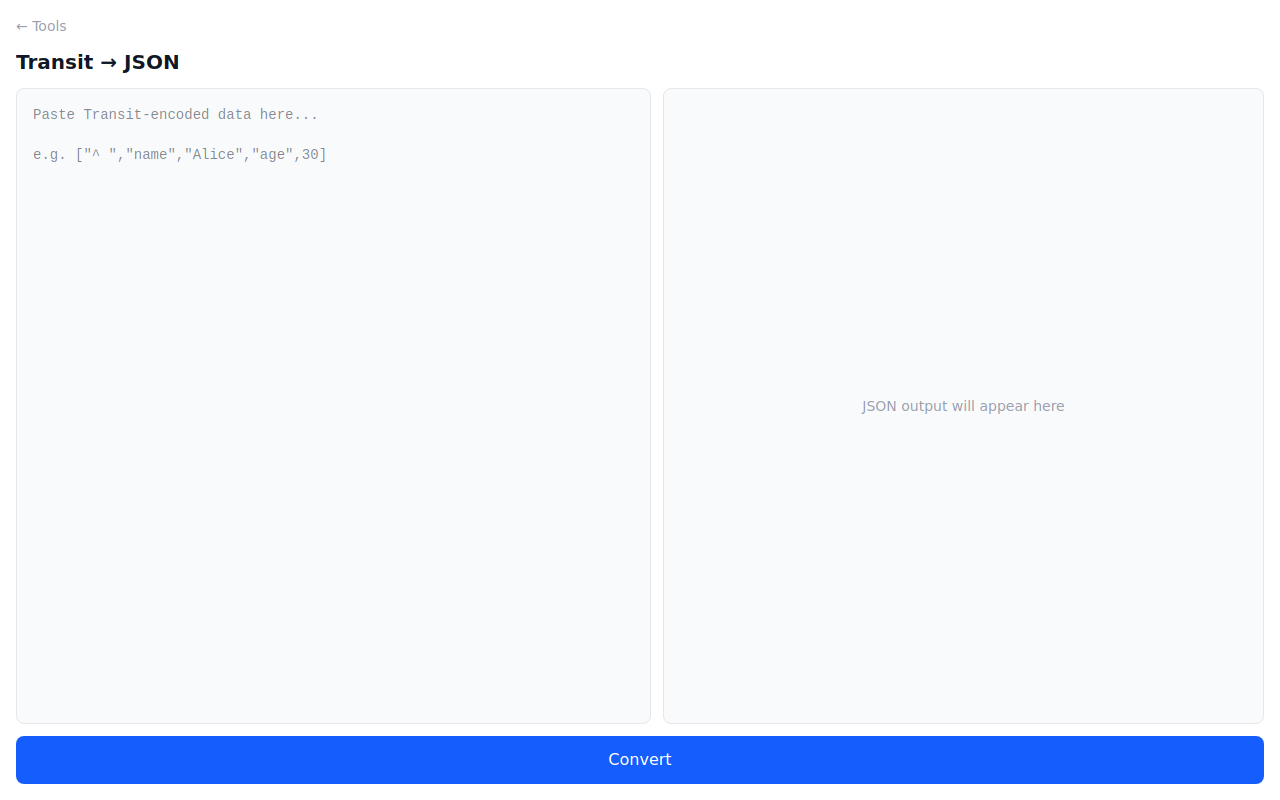
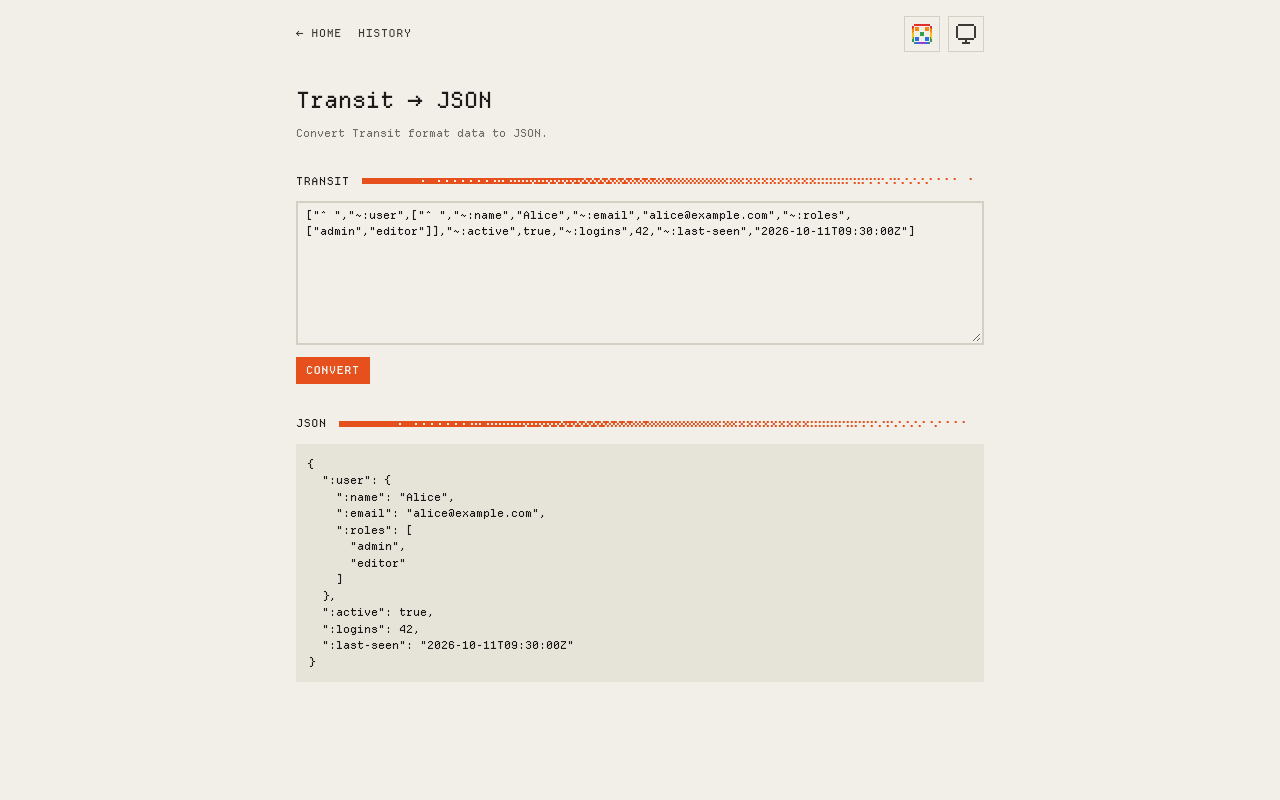
feat(transit-converter): the converter sits on PixelAppLayout and draws from the pixel kit (#84)
- **The layout's app bar replaces the tool's own nav**
  the hand-rolled Home link, history link and ThemeToggle are gone; `historyUrl` is no longer threaded through.
- **Input, Convert and output stack in one column**
  the old side-by-side, full-height split doesn't fit the 720px notes column; stacking reads top to bottom on phone and desktop alike.
- **Every colour is a token**
  errors are `danger`, output is `code-bg`/`code-text`, Convert is the primary button.
- **The screenshot shows a real conversion**
  so the front-page card reads as the tool rather than an empty form; dither stays `ui`.

diff --git a/src/pages/transit-converter/_app/app.jsx b/src/pages/transit-converter/_app/app.jsx
@@ -1,7 +1,7 @@
 import { createRoot } from 'react-dom/client';
 import { useState } from 'react';
 import transit from 'transit-js';
-import { ThemeToggle } from '../../../components/ThemeToggle.jsx';
+import { SectionLabel } from '../../../components/pixel/SectionLabel.jsx';
 
 const reader = transit.reader('json');
 
@@ -25,7 +25,7 @@ function toJson(value) {
   return value;
 }
 
-function App({ historyUrl }) {
+function App() {
   const [input, setInput] = useState('');
   const [output, setOutput] = useState(null);
   const [error, setError] = useState(null);
@@ -42,66 +42,39 @@ function App({ historyUrl }) {
   };
 
   return (
-    <div className="flex flex-col h-screen p-4 gap-3 bg-white dark:bg-gray-900 text-gray-900 dark:text-gray-100">
-      <nav className="flex items-center gap-3 text-sm text-gray-400">
-        <a
-          href="../"
-          className="inline-flex items-center gap-1 hover:text-gray-600 dark:hover:text-gray-300 transition-colors"
-        >
-          ← Home
-        </a>
-        {historyUrl && (
-          <a
-            href={historyUrl}
-            target="_blank"
-            rel="noopener"
-            className="hover:text-gray-600 dark:hover:text-gray-300 transition-colors"
-          >
-            history
-          </a>
-        )}
-        <ThemeToggle className="ml-auto" />
-      </nav>
+    <div className="text-text">
+      <h1 className="page-title mt-4 mb-2">Transit → JSON</h1>
+      <p className="page-sub mt-0 mb-8">Convert Transit format data to JSON.</p>
 
-      <h1 className="text-xl font-semibold">Transit → JSON</h1>
-
-      <div className="flex flex-col flex-1 gap-3 min-h-0 md:flex-row">
+      <section className="mb-8">
+        <SectionLabel className="mb-3">Transit</SectionLabel>
         <textarea
-          className="flex-1 w-full resize-none rounded-lg p-4 font-mono text-sm focus:outline-none focus:ring-2 focus:ring-blue-500 bg-gray-50 dark:bg-gray-800 dark:text-gray-100 border border-gray-200 dark:border-gray-700"
+          className="pixel-field w-full block resize-y font-pixel text-pixel"
+          rows={8}
           placeholder={'Paste Transit-encoded data here...\n\ne.g. ["^ ","name","Alice","age",30]'}
           value={input}
           onChange={e => setInput(e.target.value)}
           spellCheck={false}
         />
+        <button onClick={handleConvert} className="pixel-button w-full sm:w-auto mt-3" data-variant="primary">
+          Convert
+        </button>
+      </section>
 
-        <div className="flex-1 min-h-0 flex flex-col gap-2">
-          {error && (
-            <div className="rounded-lg p-3 bg-red-50 dark:bg-red-900/30 border border-red-200 dark:border-red-700 text-red-700 dark:text-red-300 text-sm font-mono">
-              {error}
-            </div>
-          )}
-          {output !== null ? (
-            <pre className="flex-1 rounded-lg p-4 bg-gray-50 dark:bg-gray-800 border border-gray-200 dark:border-gray-700 text-sm font-mono overflow-auto dark:text-gray-100">
-              {output}
-            </pre>
-          ) : (
-            <div className="flex-1 rounded-lg p-4 bg-gray-50 dark:bg-gray-800 border border-gray-200 dark:border-gray-700 text-sm text-gray-400 dark:text-gray-500 flex items-center justify-center">
-              JSON output will appear here
-            </div>
-          )}
-        </div>
-      </div>
-
-      <button
-        onClick={handleConvert}
-        className="w-full py-3 bg-blue-600 text-white rounded-lg hover:bg-blue-700 active:bg-blue-800 font-medium transition-colors"
-      >
-        Convert
-      </button>
+      <section className="mb-8">
+        <SectionLabel className="mb-3">JSON</SectionLabel>
+        {error && (
+          <p className="pixel-panel border-danger text-danger font-pixel text-pixel p-3 mb-3 break-words">{error}</p>
+        )}
+        {output !== null ? (
+          <pre className="bg-code-bg text-code-text font-pixel text-pixel p-3 overflow-auto max-h-[60vh]">{output}</pre>
+        ) : (
+          <p className="label opacity-60 bg-code-bg p-6 text-center">JSON output will appear here</p>
+        )}
+      </section>
     </div>
   );
 }
 
 const mount = document.getElementById('app');
-const root = createRoot(mount);
-root.render(<App historyUrl={mount.dataset.historyUrl} />);
+createRoot(mount).render(<App />);
